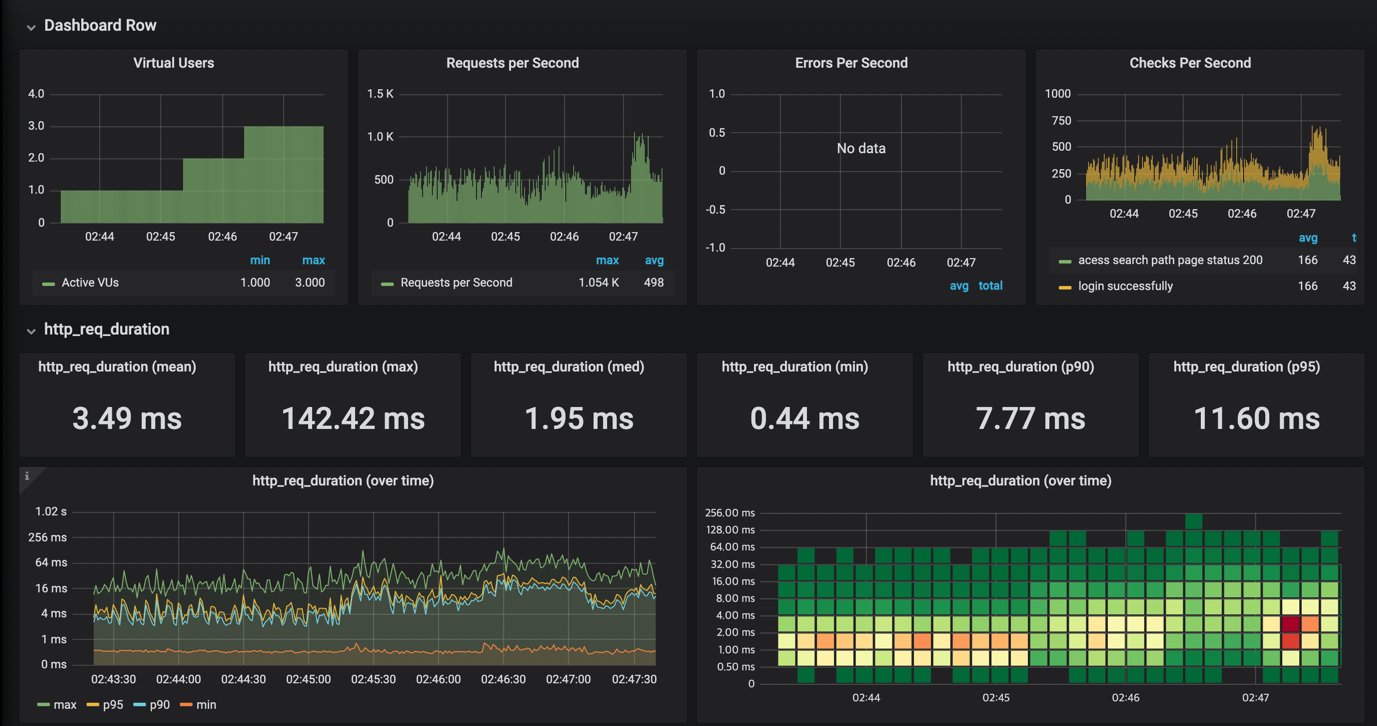
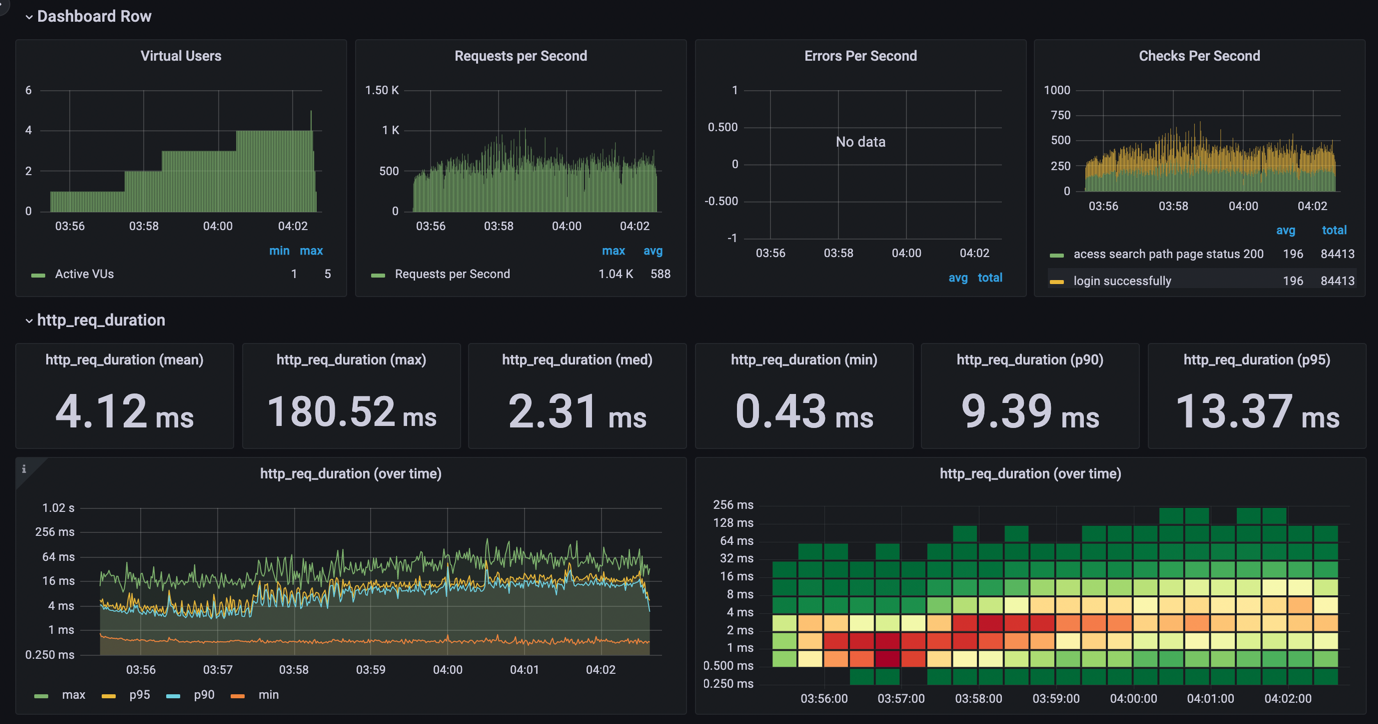
feat: 테스트 결과 첨부

diff --git a/README.md b/README.md
@@ -54,8 +54,12 @@ npm run dev
         - DB Connection Pooling
 
 2. 성능 개선 결과를 공유해주세요 (Smoke, Load, Stress 테스트 결과)
+   - template 경로에 첨부
 
 3. 어떤 부분을 개선해보셨나요? 과정을 설명해주세요
+   - TODO 작업들 진행.
+   - 스트레스 테스트 부하가 커서 그런지 테스트 서버가 버티지 못함 ㅠㅠ
+   - load 테스트 기반으로 봤을때 어느정도 성능 개선은 있어보임.
 
 ---
 
